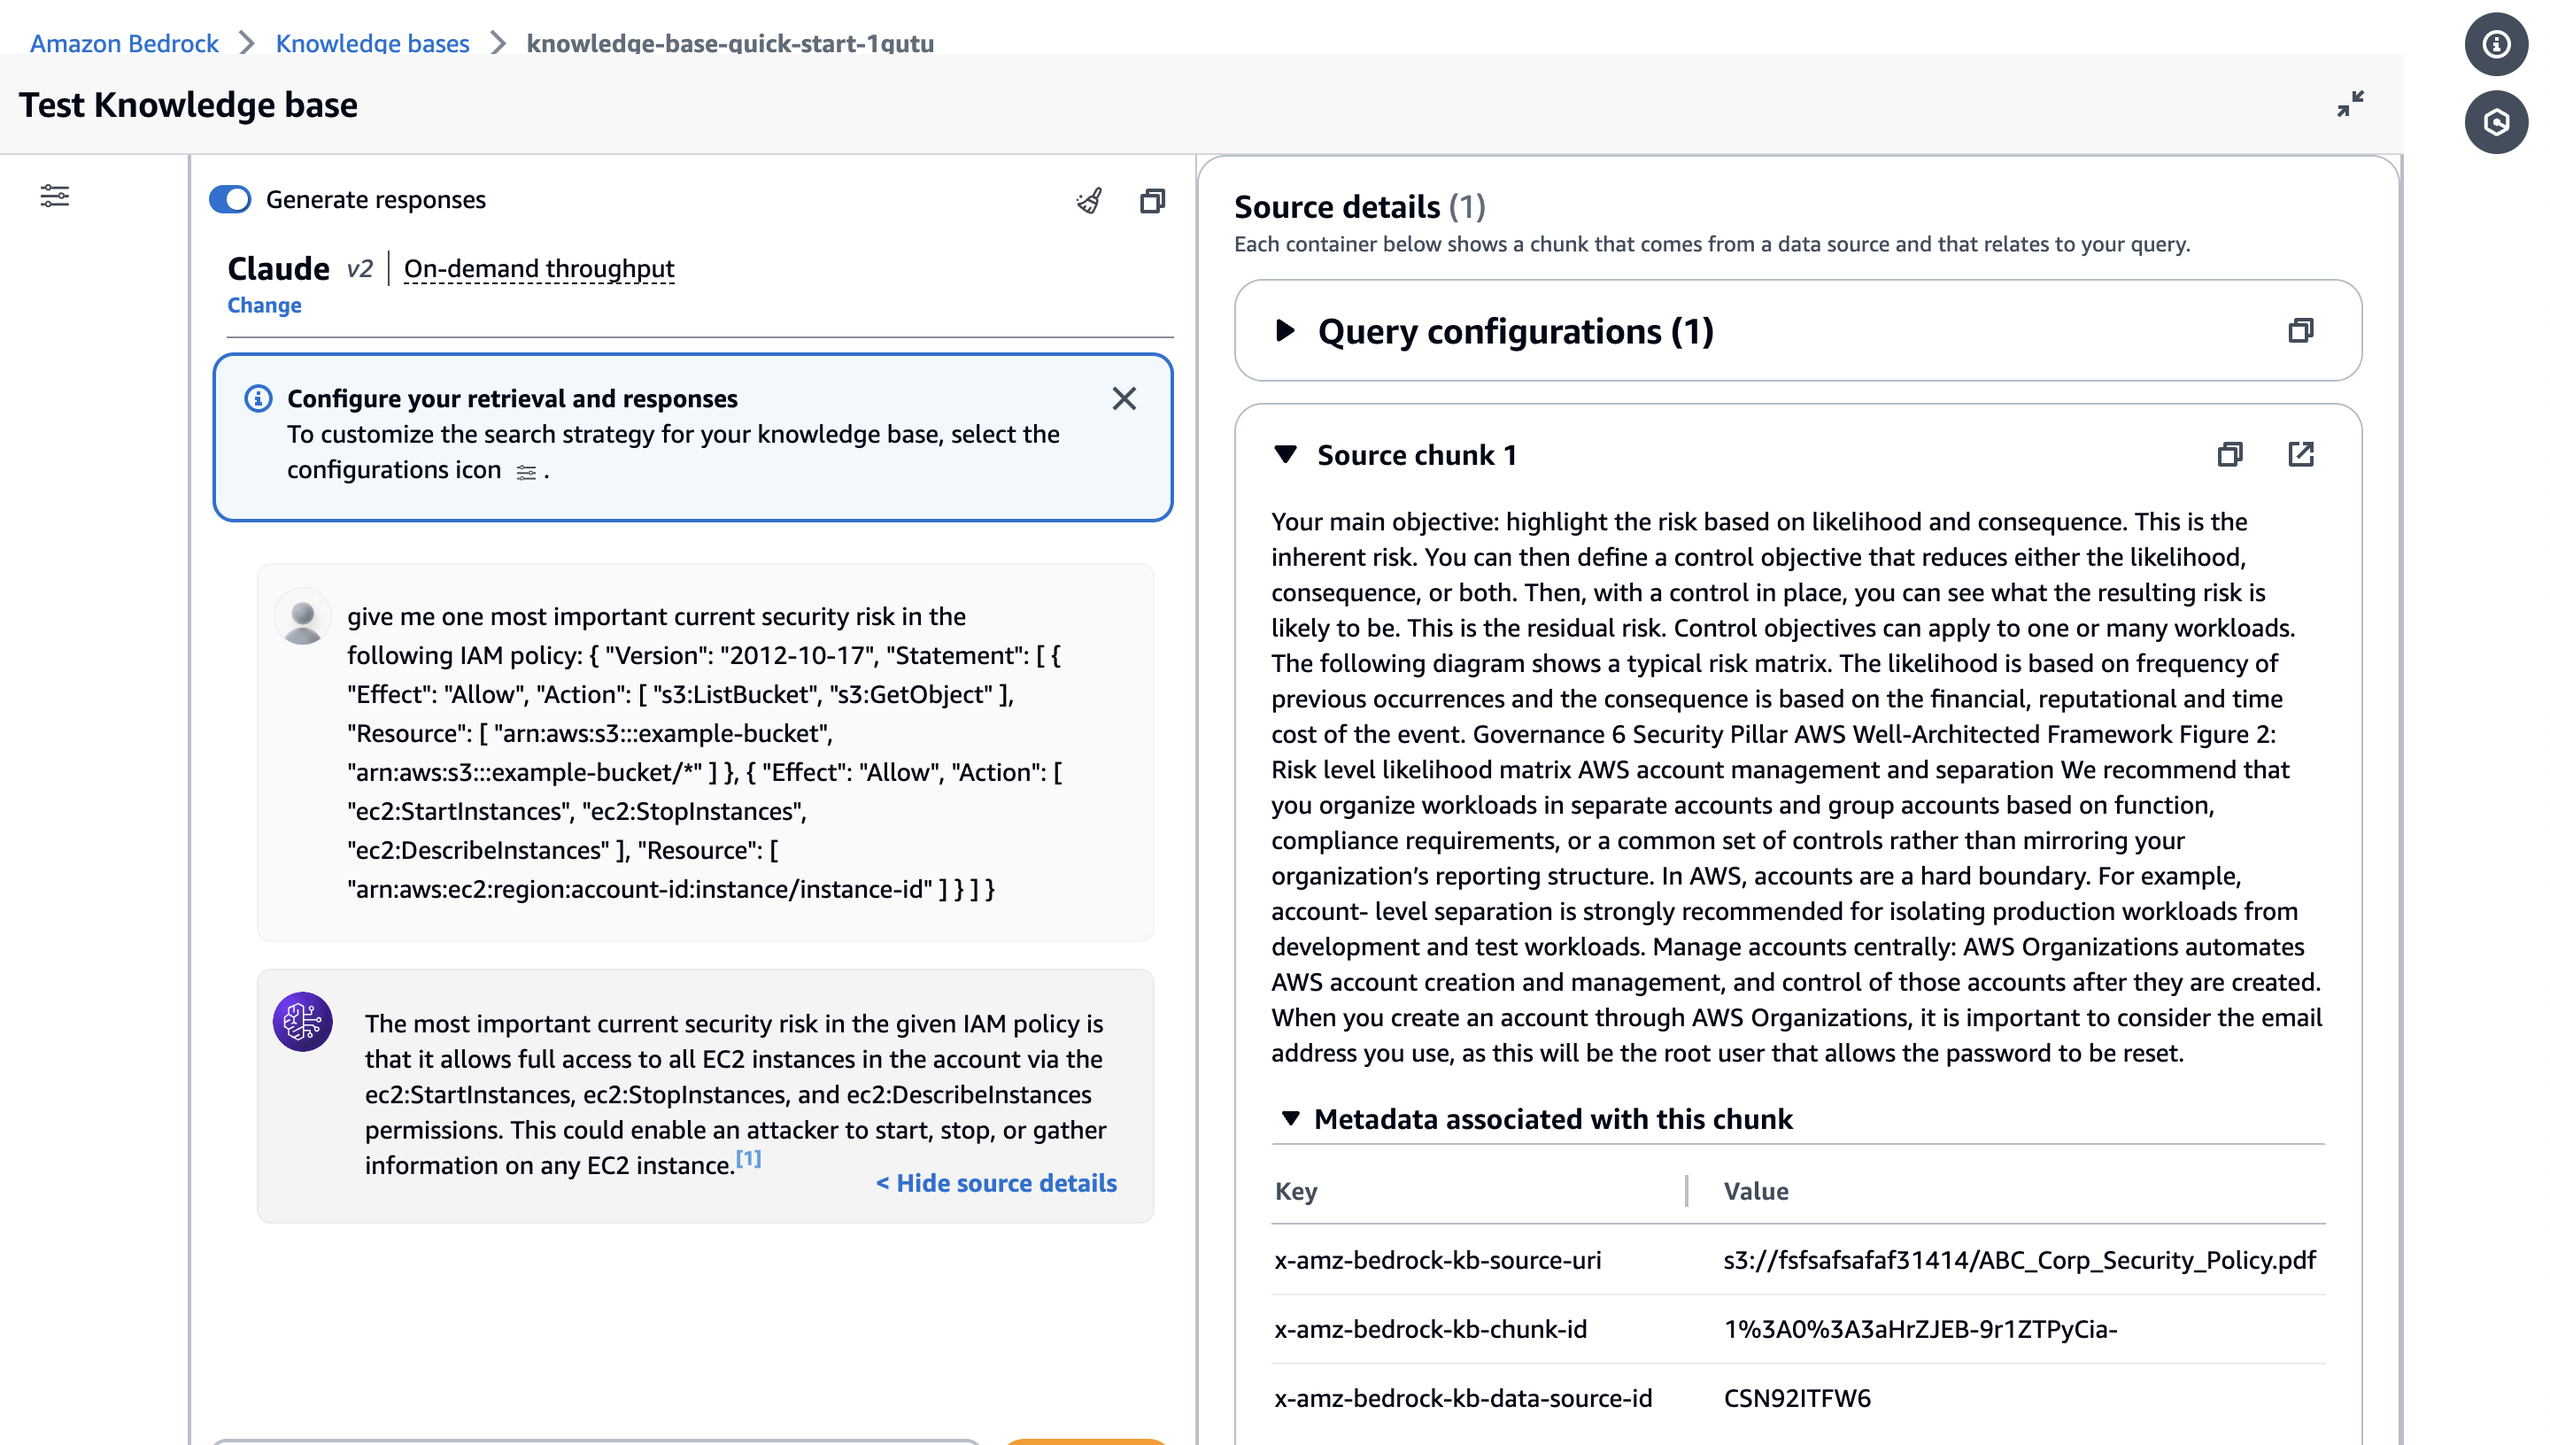
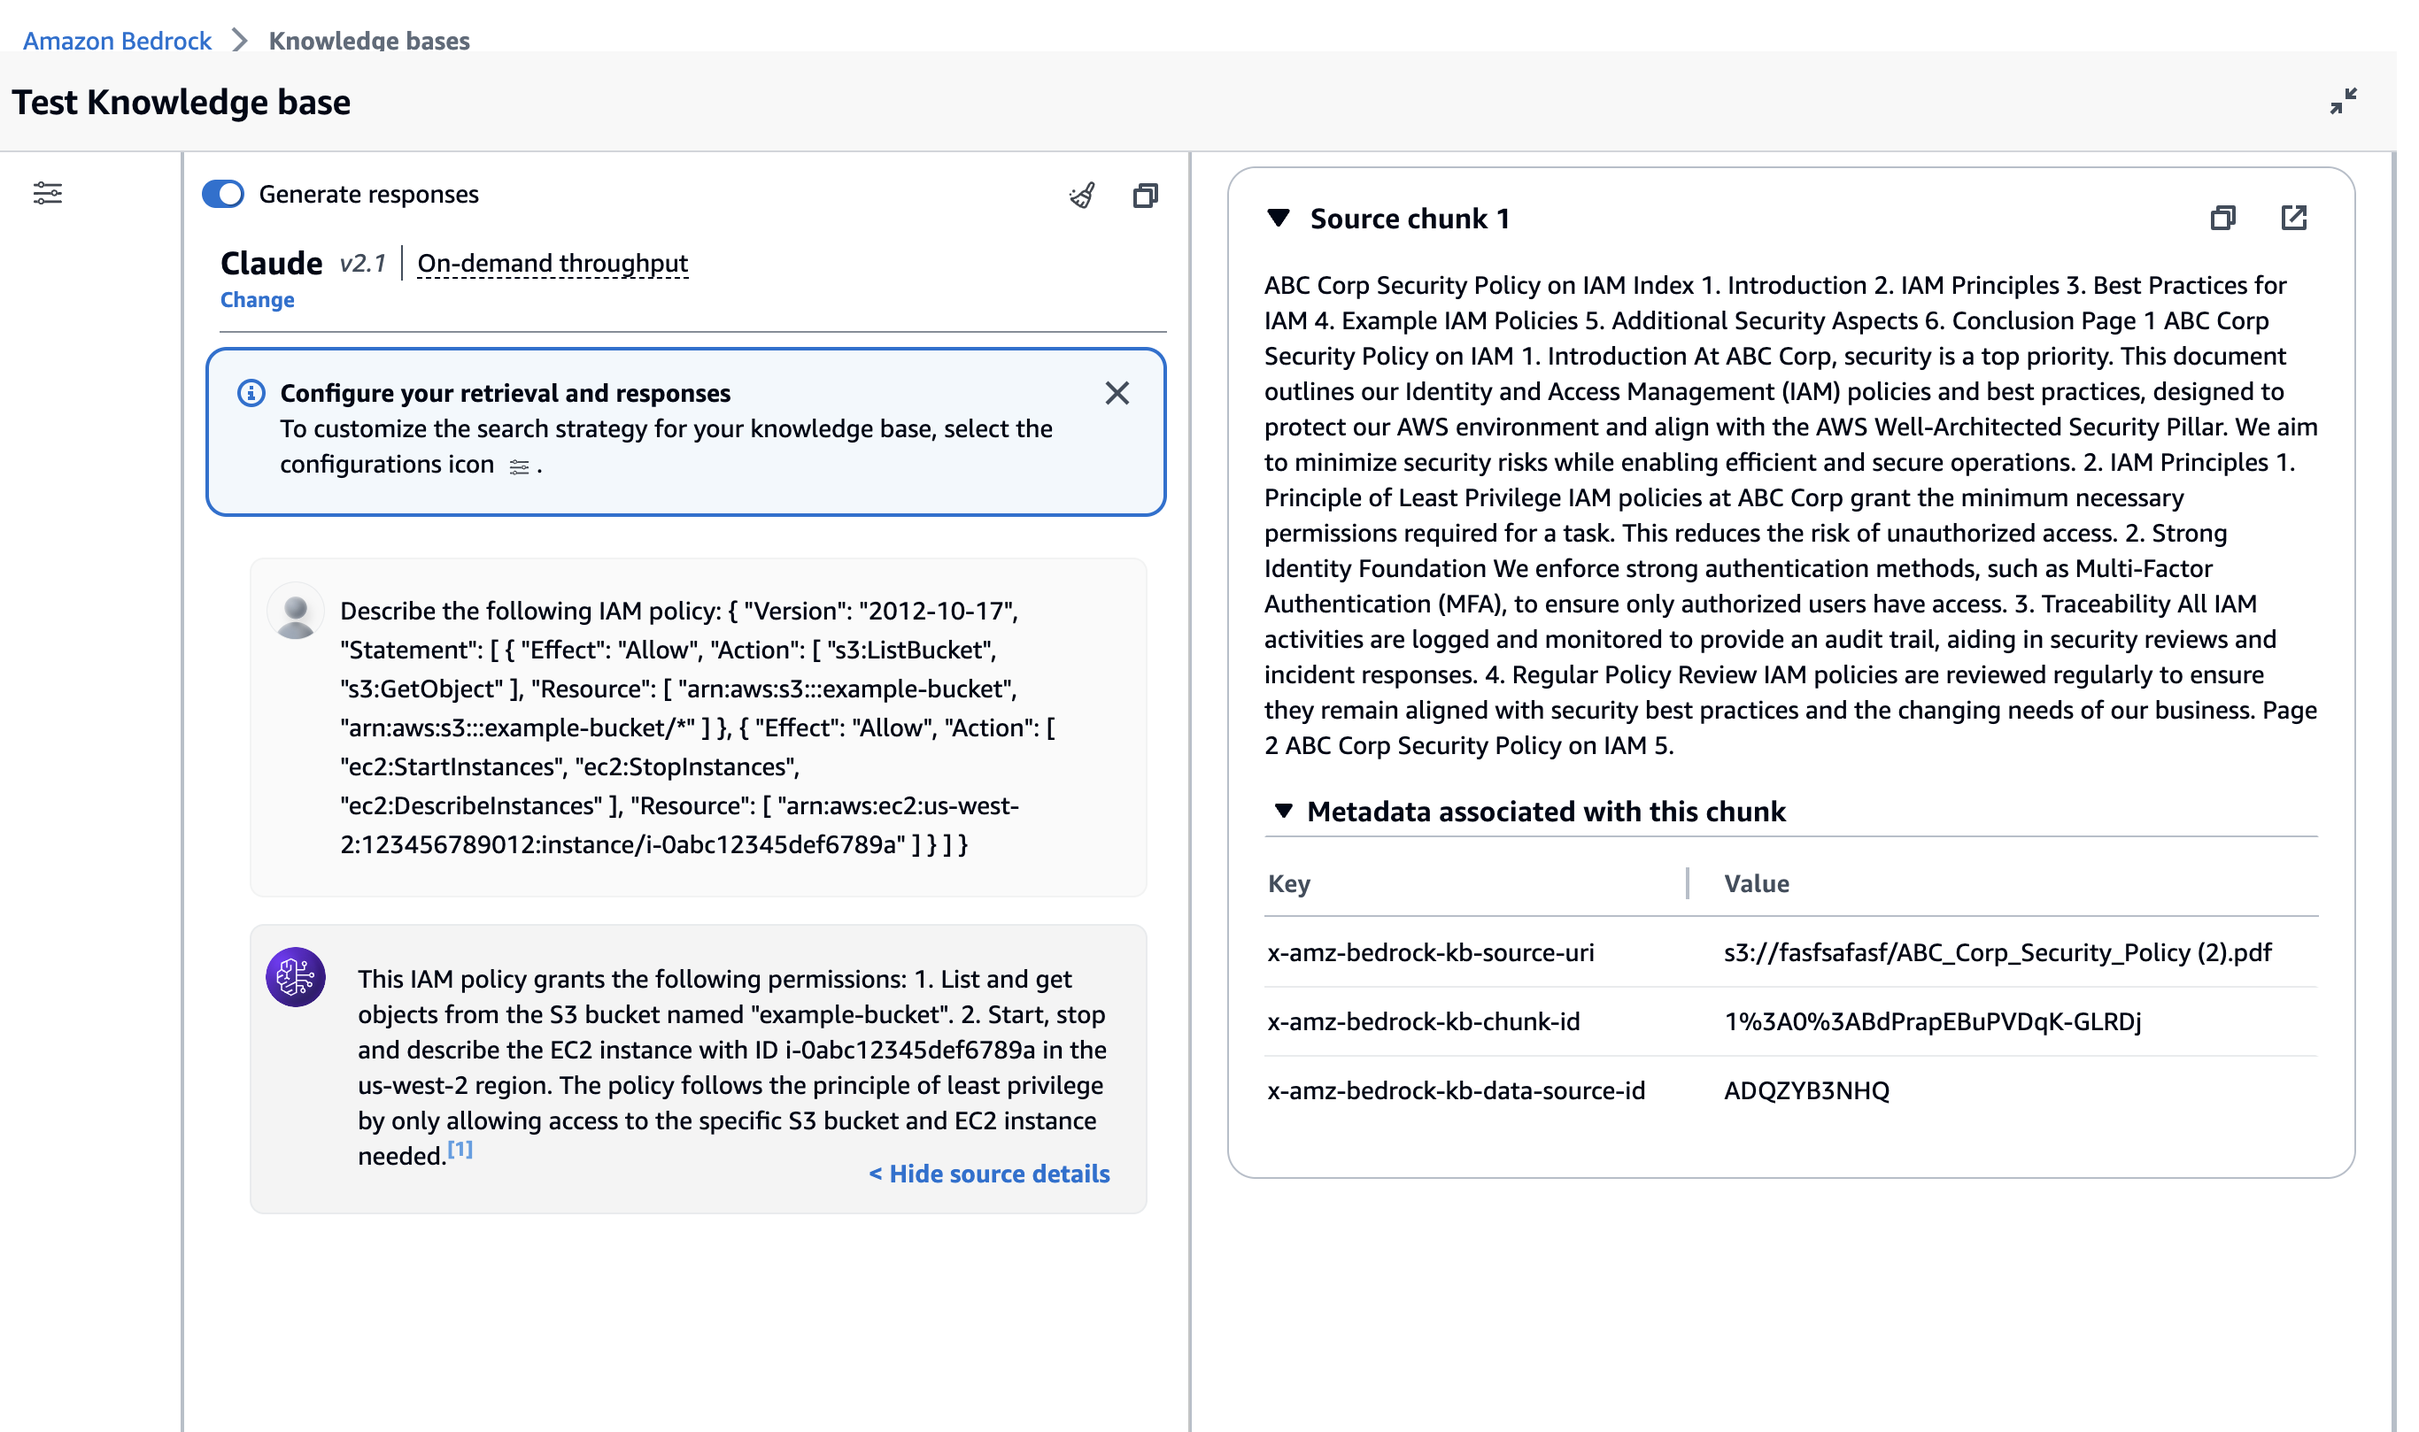
fix

diff --git a/prompt_intro.md b/prompt_intro.md
@@ -11,7 +11,7 @@ Go to Bedrock and select Playground->Chats
 
 
 Now Click on **Select Model** button , and select the model based on the execise 
-(like Anthropic Claude Model)
+(like Anthropic Claude Model or Titan Text G1 - Express v1)
 
    ![image](prompt_intro/images/playground_select_model.png)
 
@@ -28,7 +28,7 @@ Now Let write our prompts
 Zero Shot prompting describes the technique where you present a task to an LLM without giving it further examples. You, therefore, expect it to perform the task without getting a prior look.
 
 Modern LLMs demonstrate remarkable zero-shot performance, and a positive correlation can be drawn between model size and zero-shot performance.
-Here is an example of a prompt , use it in the playground with Anthropic Claude model
+Here is an example of a prompt , use it in the playground with Anthropic Claude model.
 
 ```python
 Human:
@@ -53,7 +53,7 @@ The "Assistant" part of the prompt in the Zero-Shot example is included to simul
 
 Giving the model more information about the tasks at hand via examples is called Few-Shot Prompting. It can be used for in-context learning by providing examples of the task and the desired output. You can therefore condition the model on the examples to follow the task guidance more closely.
 
-Here is an example of a prompt , use it in the playground with Amazon Titan model
+Here is an example of a prompt , use it in the playground with **Amazon Titan model**
 
 ```python
 Deployment Log: "Application failed to connect to the database during startup.”: Issue: Database Connection Error
@@ -72,7 +72,7 @@ Examine the executed prompted in Amazon Bedrock text playground
 
 Chain-of-Thought (CoT) prompting breaks down complex reasoning tasks through intermediary reasoning steps. Chain-of-Thought prompts are usually very specific to a problem type. One can try to invoke CoT reasoning by using the trigger phrase "(Think Step-by-Step)". Let's examine the following example of a few-shot CoT prompt.
 
-Here is an example of a prompt , use it in the playground with e Amazon Titan model
+Here is an example of a prompt , use it in the playground with  **Amazon Titan model**
 
 ```python
 A company's server experiences downtime over three consecutive days as follows:

diff --git a/kb.md b/kb.md
@@ -143,7 +143,7 @@ At this point it's seems our agent know something about security , so let's ask 
 
 ```json
 
-give me one most important current security risk in the following IAM policy:
+Describe the following IAM policy:
 
 
 {
@@ -168,11 +168,12 @@ give me one most important current security risk in the following IAM policy:
                 "ec2:DescribeInstances"
             ],
             "Resource": [
-                "arn:aws:ec2:region:account-id:instance/instance-id"
+                "arn:aws:ec2:us-west-2:123456789012:instance/i-0abc12345def6789a"
             ]
         }
     ]
 }
+
 
 ```
 
